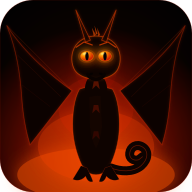
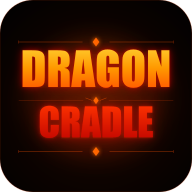
feat: アイコンをDRAGON CRADLEテキストロゴに刷新（炎グラデーション×オーナメント）

diff --git a/sw.js b/sw.js
@@ -4,7 +4,7 @@
    ============================================================ */
 'use strict';
 
-const CACHE_NAME = 'dragon-cradle-v5';
+const CACHE_NAME = 'dragon-cradle-v6';
 
 const PRECACHE_ASSETS = [
   './',
